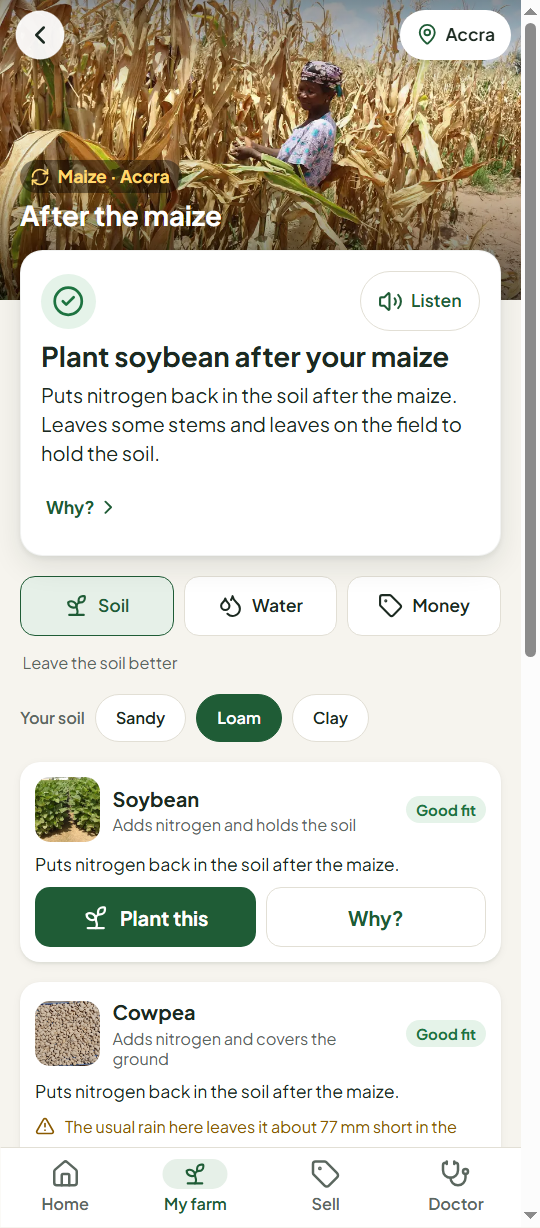
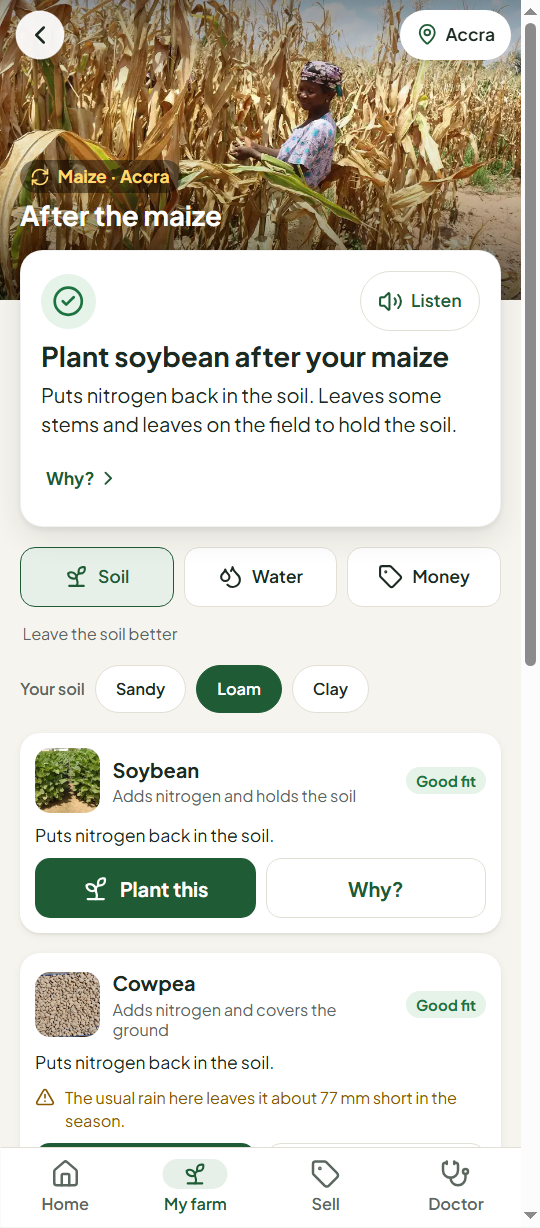
Put the soil chips on their own line, and record the zone soil, the trend and the farmer verdict in the docs

diff --git a/app/styles.css b/app/styles.css
@@ -490,7 +490,8 @@ html[lang=tw] body.offline [data-net]::before { content: "Ɛhia intanɛt"; }
 .seg .ic { width: 20px; height: 20px; }
 .seg.on { background: var(--brand-2); border-color: var(--brand); color: var(--brand); }
 .seg-line { margin: -4px 2px 0; font-size: var(--fs-xs); color: var(--muted); }
-.soilline { display: flex; align-items: center; flex-wrap: wrap; gap: 8px; font-size: var(--fs-xs); font-weight: 600; color: var(--muted); }
+.soilline { display: flex; flex-direction: column; align-items: flex-start; gap: 6px; font-size: var(--fs-xs); font-weight: 600; color: var(--muted); }
+.soilchips { display: flex; gap: 8px; }
 .soilchip { min-height: 38px; padding: 0 16px; border-radius: 999px; border: 1px solid var(--line); background: var(--surface); color: var(--ink); font: inherit; font-size: var(--fs-xs); font-weight: 600; cursor: pointer; }
 .soilchip.on { background: var(--brand); border-color: var(--brand); color: #fff; }
 .nextcard { display: flex; flex-direction: column; gap: 8px; padding: 12px; border-radius: 16px; background: var(--surface); box-shadow: var(--shadow); }

diff --git a/app/js/screens/next.js b/app/js/screens/next.js
@@ -72,7 +72,7 @@ export function render(id, fid) {
     </div>
     <p class="seg-line">${esc(PRIORITIES.find((x) => x.id === prio).line)}</p>
     <div class="soilline"><span>Soil${autoSoil.zoneName ? ` · usual in the ${esc(autoSoil.zoneName.toLowerCase())}` : ""}</span>
-      ${SOILS.map((x) => `<button type="button" class="soilchip${x.id === soil ? " on" : ""}" data-soil="${x.id}" aria-pressed="${x.id === soil}">${x.label}</button>`).join("")}
+      <span class="soilchips">${SOILS.map((x) => `<button type="button" class="soilchip${x.id === soil ? " on" : ""}" data-soil="${x.id}" aria-pressed="${x.id === soil}">${x.label}</button>`).join("")}</span>
     </div>
     ${options.map((o) => optionCard(o, soil)).join("")}
     <p class="note-text">${esc(autoSoil.note)} ${esc(SOILS.find((x) => x.id === soil).plain[0].toUpperCase() + SOILS.find((x) => x.id === soil).plain.slice(1))}. Walo cannot test your field, so tap the one that looks and feels like yours.</p>

diff --git a/app/sw.js b/app/sw.js
@@ -5,7 +5,7 @@
    missing file can no longer fail the whole install and leave a farmer with no offline copy at all.
    Any file that fails is reported to /api/log (app/api/log.js) as "sw_missing" so it shows up in the
    server log instead of failing silently. Bump CACHE whenever FILES or a shipped asset changes. */
-const CACHE = "walo-v104";
+const CACHE = "walo-v105";
 const FILES = ["./", "index.html", "styles.css", "icon.svg", "manifest.json", "fonts/jakarta-var.woff2", "lib/agro.js",
   "img/flags/gh.png", "img/flags/ke.png", "img/flags/ng.png", "img/flags/tg.png", "img/flags/ci.png", "img/flags/sn.png", "img/flags/ml.png", "img/flags/ne.png", "img/logo-mark.png", "img/logo-mark-192.png", "img/logo-mark-512-maskable.png", "img/favicon-32.png", "img/apple-touch-icon.png",
   "js/main.js", "js/data.js", "js/store.js", "js/ui.js", "js/util.js", "js/icons.js",

diff --git a/app/DESIGN.md b/app/DESIGN.md
@@ -293,6 +293,7 @@ with the soil store starting empty (100 mm bucket, `default: true`). WRSI ≥ 80
 The challenge asks for a decision tool that helps a farmer **explore crop rotations** with NASA observations, local soil, crop characteristics and farmer priorities. Walo answered *when* and *where* to plant; it had nothing to say about what follows a crop.
 
 - **`#/next/<crop>` (and `#/next/<crop>/<field>`).** Three or four crops that could follow, always including the crop already in the field so "maize again" is compared and never hidden. Each is scored 0–100 from four parts: water (the FAO-56 water balance on NASA rain, deficit as a share of need, adjusted for a sandy, loam or clay soil), soil (legume nitrogen, ground cover left behind, a same-family penalty, a bonus for a cereal after a legume), money (whether a usual price pattern exists and whether it usually rises after harvest) and heat (very hot days while it flowers). The weights are her choice: **Soil**, **Water** or **Money** (`walo.priority`). Everything is in the Why? sheet, with crop traits labelled as extension rules of thumb (IITA/MoFA guides).
-- **`#/shift`.** The same NASA POWER daily record split into **1991–2014** and **2015–2025** at her point: median onset day (method 4), mean rain in the country's major-season window, and mean days above 35 °C in it. `scripts/build_shift.py` builds `data/shift.json` for all 72 towns. The screen says what moved ("Rain starts 13 days earlier than in 1991–2014"), what it means for planting, and what it is not: two periods, not a trend line, on a ~50 km grid.
-- **Soil.** Three textures change how much of a crop's water need the same rain covers and how much cover protects the soil. Her pick is remembered (`walo.soil`), and the screen says Walo cannot test her soil.
+- **`#/shift`.** The same NASA POWER daily record split into **1991–2014** and **2015–2025** at her point: median onset day (method 4), mean rain in the country's major-season window, and mean days above 35 °C in it. `scripts/build_shift.py` builds `data/shift.json` for all 72 towns. The screen says what moved ("Rain starts 13 days earlier than in 1991–2014"), what it means for planting, a least-squares trend over every year 1991–2025 (days per decade, mm per decade, hot days per decade), and what it is not: two periods, not a forecast, on a ~50 km grid.
+- **Soil.** `data/soil.json` gives every FAO zone its usual soil (forest and transition loam, savanna and coastal sandy, highland loam) with a plain note behind it, so the screen starts local instead of from a default. Her tap overrides it for good (`walo.soil`), and the screen says Walo cannot test her field.
+- **Evidence.** "Did this help you decide?" on the rotation screen posts only the crop and the verdict to `/api/log` (`rot_help`), so the first farmer opinions become a count the team can read.
 - **Links.** Home (a row and the taller planting card), the crop page ("What to plant after it") and the field page ("After harvest · What to plant next").

diff --git a/README.md b/README.md
@@ -119,7 +119,8 @@ The browser holds the climate summaries, crop rules, and price indexes. It asks 
 | Ghana Commodity Exchange | Traded closing prices per kilogram for white maize and soya bean at the Tamale, Kumasi and Sandema warehouses, 2026 | [GCX market data](https://www.gcx.com.gh/market-data) · built by `app/scripts/build_gcx_prices.py` |
 | HDX HAPI market prices (other countries) | WFP market prices in one schema across countries: market coordinates, currency, the unit the market sells in, retail or wholesale, monthly. Converted to price per kilogram; used for the countries Walo is expanding into, not yet loaded by the app | [HDX HAPI](https://hapi.humdata.org/docs) · built by `app/scripts/build_hapi_prices.py` |
 | IITA and CSIR-SARI (and related Ghana trials) | Crop guides for maize, sorghum, cassava, yam, plantain, cowpea, millet | Per-crop list in [docs/walo-crops-sources.md](docs/walo-crops-sources.md) |
-| NASA POWER daily, same point, 1991–2014 vs 2015–2025 | How the season has moved at her town (`data/shift.json`, built by `app/scripts/build_shift.py`) | [power.larc.nasa.gov](https://power.larc.nasa.gov/) |
+| NASA POWER daily, same point, 1991–2014 vs 2015–2025 | How the season has moved at her town: two periods and a 35-year trend (`data/shift.json`, built by `app/scripts/build_shift.py`) | [power.larc.nasa.gov](https://power.larc.nasa.gov/) |
+| FAO agro-ecological zones and the district soil notes in `docs/walo-crops-sources.md` | The usual soil for her zone, which the rotation screen starts from (`data/soil.json`) | [FAO crop calendar](https://cropcalendar.apps.fao.org/) |
 | WFP food prices for Ghana, via HDX | Seasonal price index, 20 markets, observations through July 2023 | [HDX dataset](https://data.humdata.org/dataset/wfp-food-prices-for-ghana) |
 | Meteomatics Weather API | 10-day rain and maximum temperature. Climatology stays NASA POWER | [Getting started](https://www.meteomatics.com/en/api/getting-started/) |
 | Google Gemini | Plant Doctor and Get help, on the server, labelled as AI | [Gemini API](https://ai.google.dev/gemini-api/docs) |
